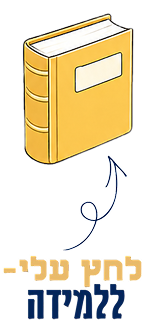
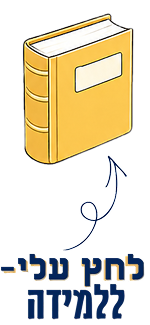
Add files via upload

Changed region(s): [[0.5333, 0.7692, 0.96, 0.8923], [0.0, 0.7692, 0.48, 0.8615]]

diff --git a/main.js b/main.js
@@ -701,7 +701,7 @@ const quizData = {
        {
         q: "מה מהבאים אינו קריטריון לבחירת חניך למופת?",
         answers: ["חווד מפקד בולט לחיוב", "סוציומטרי עמיתים גבוה", "ציוני מבחנים והתנסויות מעל 85", "ללא אירועי משמעת"],
-        correct: 1
+        correct: 2
       },
       {
         q: "החניך יוסי עבר כבר חצי ממהכשרה וציוניו מעים בין 70-60 האם יוסי יודח מההכשרה?",

diff --git a/index.css b/index.css
@@ -573,7 +573,7 @@ body {
 
 .text {
     position: absolute;
-    text-align: right;
+    text-align: center;
     top: 55%;
     left: 50%;
     width: 68vw;
@@ -581,6 +581,7 @@ body {
     font-family: "yarden";
     color: #03255A;
     font-size: 1rem;
+    font-weight: 400;
     direction: rtl;
 }
 
